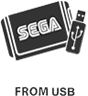
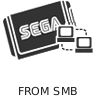
Added load smb and net option buttons. Load_smb.png doesn't seem to work.

diff --git a/source/gx/gui/menu.c b/source/gx/gui/menu.c
@@ -296,7 +296,7 @@ static gui_item items_load[5] =
   {NULL,Load_sd_png    ,"","Load ROM files from SD card"    ,275,138,88,96},
   {NULL,Load_usb_png   ,"","Load ROM files from USB drive"  ,441,138,88,96},
   {NULL,Load_dvd_png   ,"","Load ROM files from DVD"        ,192,282,88,96},
-  {NULL,Load_smb_png   ,"","Load ROM files from SMB"        ,360,282,88,96}
+  {NULL,Load_smb_png   ,"","Load ROM files from SMB"        ,360,282,95,96}
 #else
   {NULL,Load_recent_png,"","Load recent ROM files (USB/SD)" ,110,192,88,96},
   {NULL,Load_sd_png    ,"","Load ROM files from SD card"    ,276,192,88,96},
